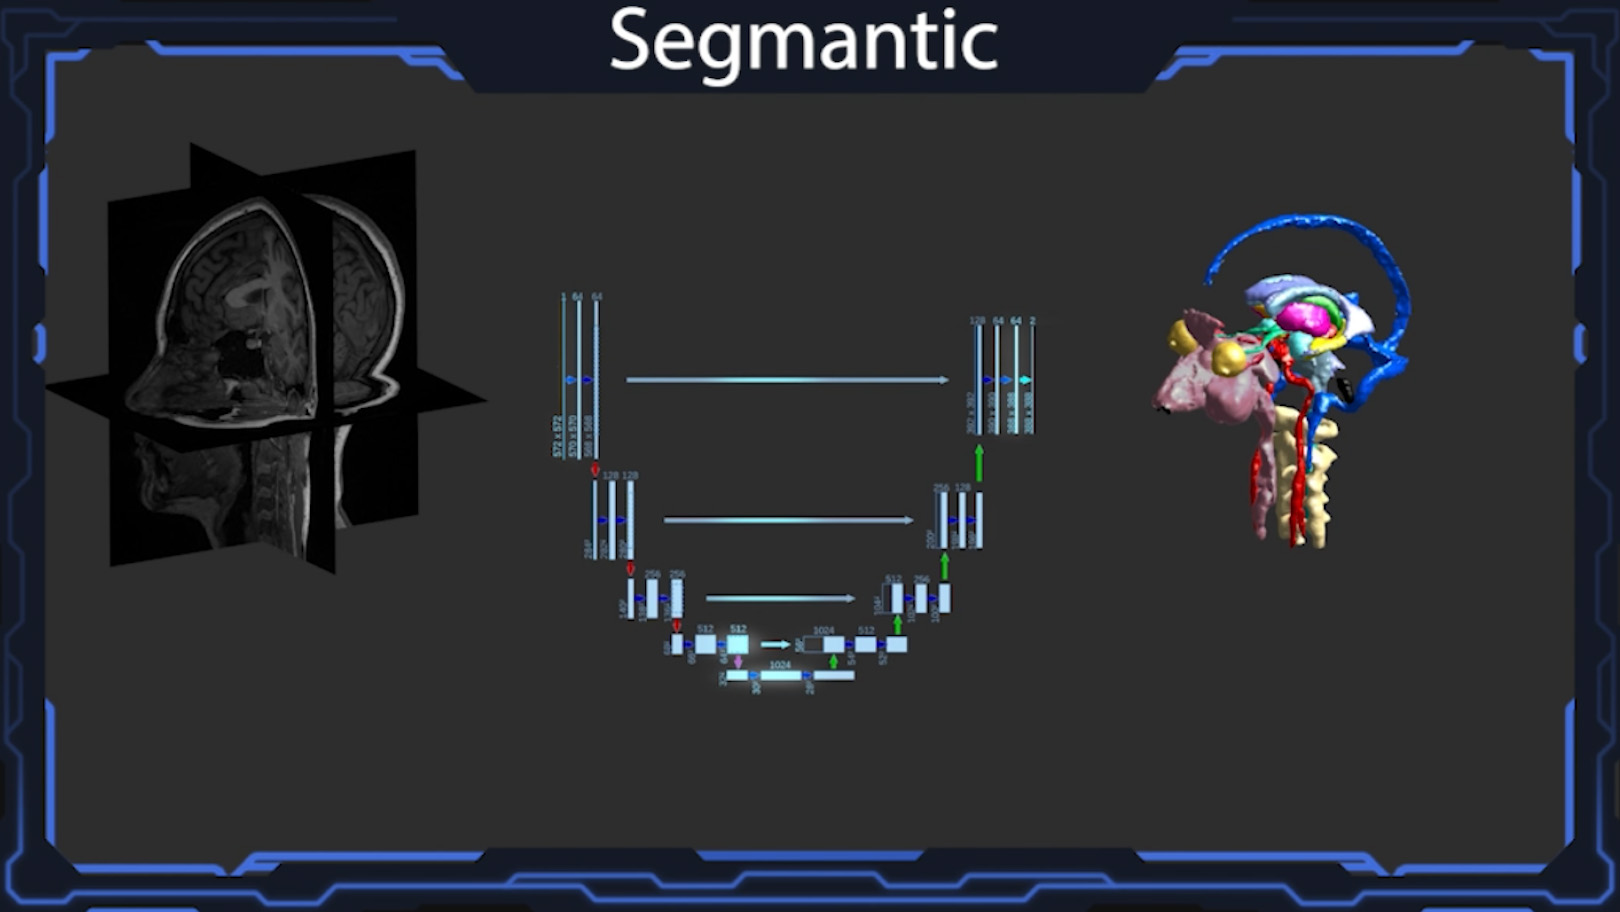
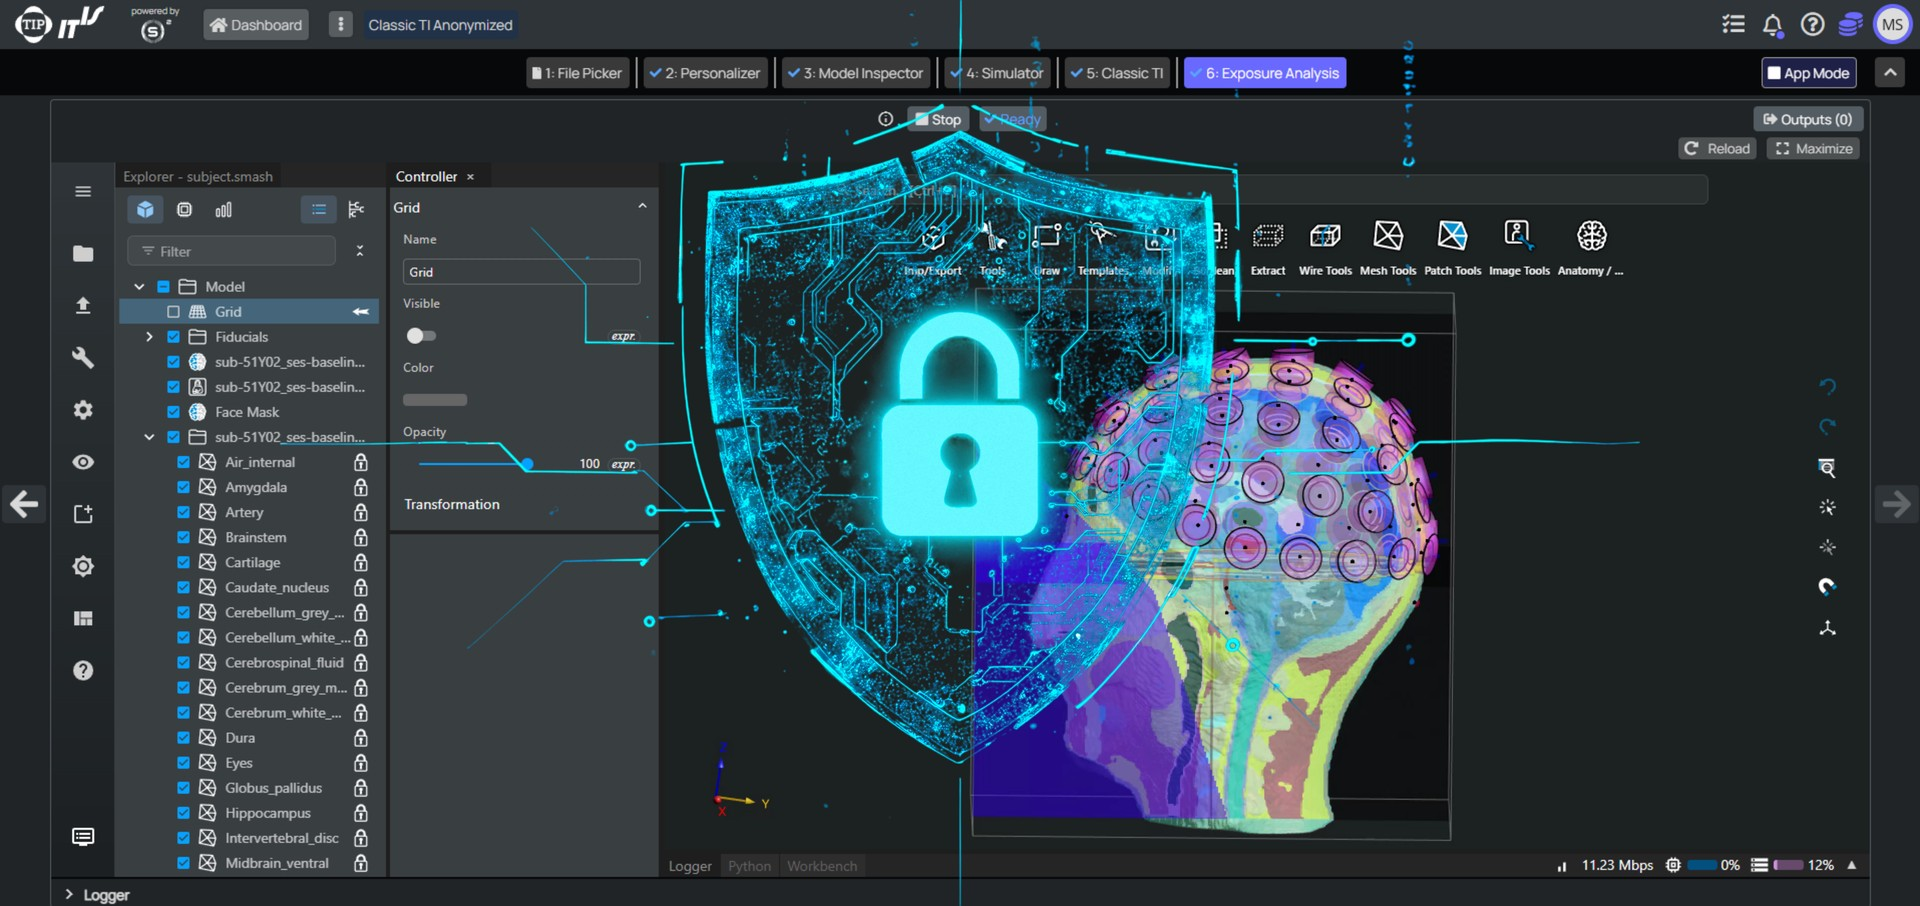
updates for TIP V5.0

diff --git a/content/cards/TIP/modal.md b/content/cards/TIP/modal.md
@@ -42,7 +42,7 @@ TIP prepares the field data needed for optimization, exposure assessment, and do
 {{< modal-image tip_3.jpg >}}
 {{< /modal-image >}}
 
-Select the anatomical model, stimulation target, and candidate electrode locations.
+Select the anatomical model, stimulation target, and threshold definitions.
 
 Standardized 10–10 electrode placement supports reproducible planning while keeping the optimization search space manageable.
 